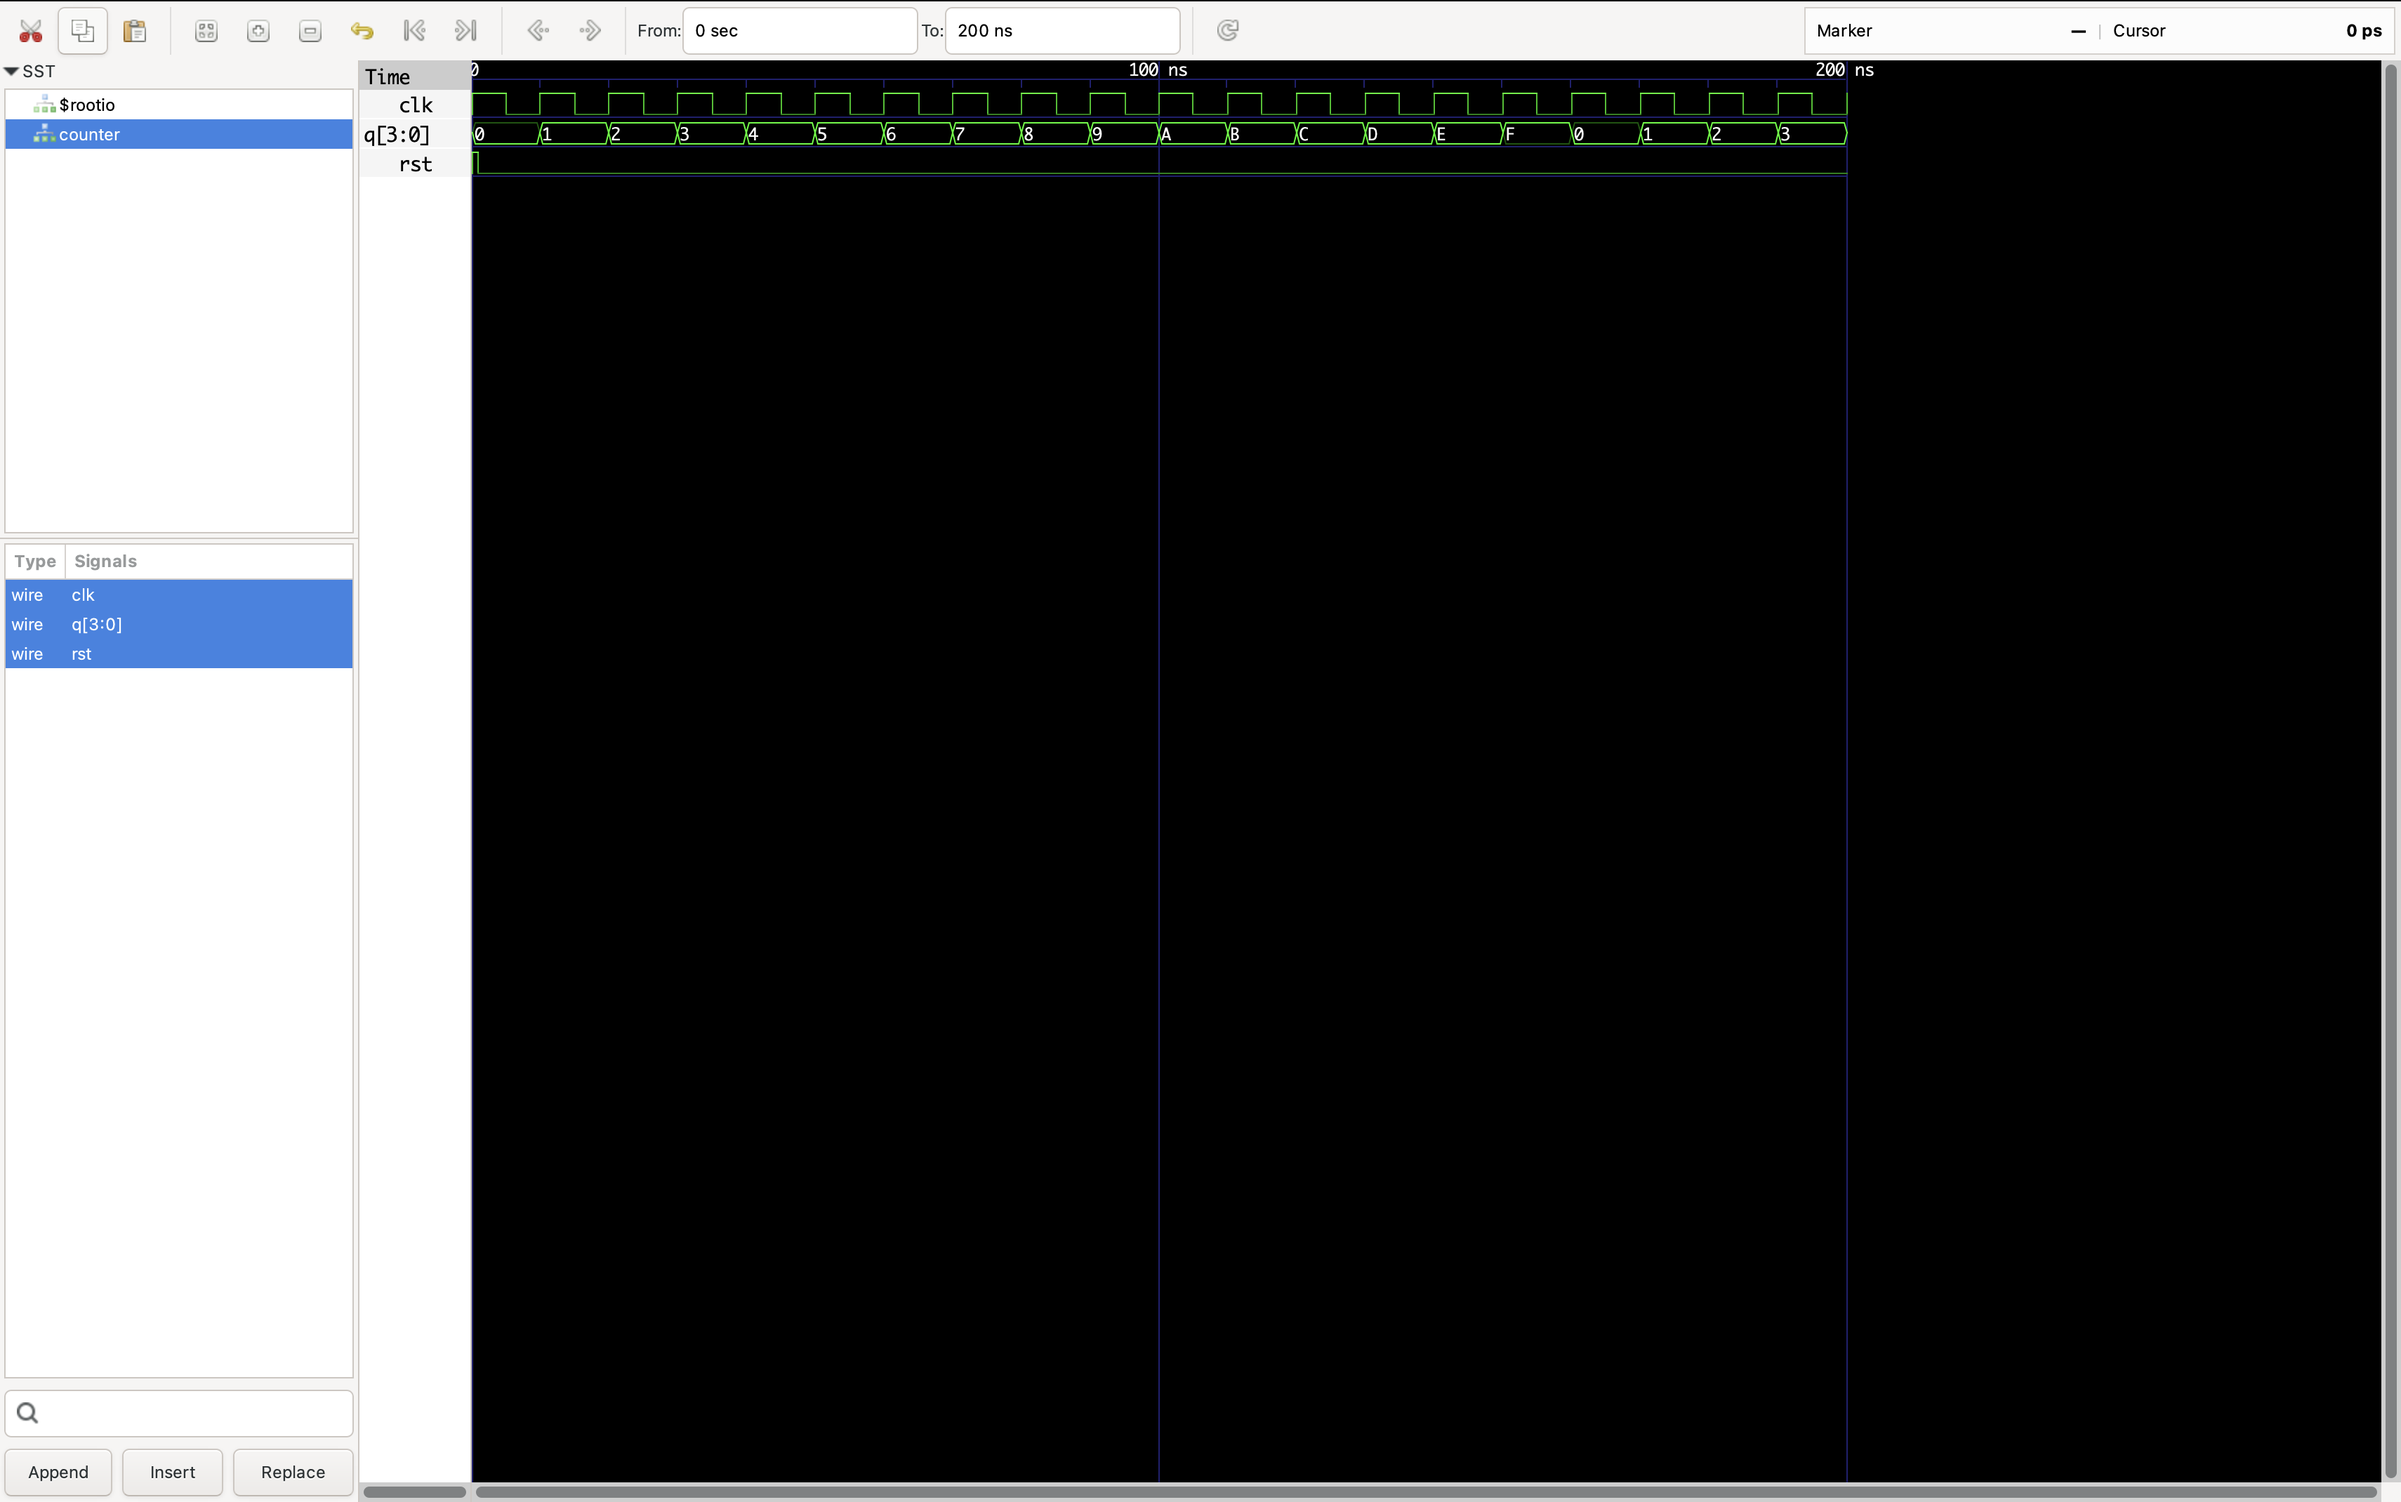
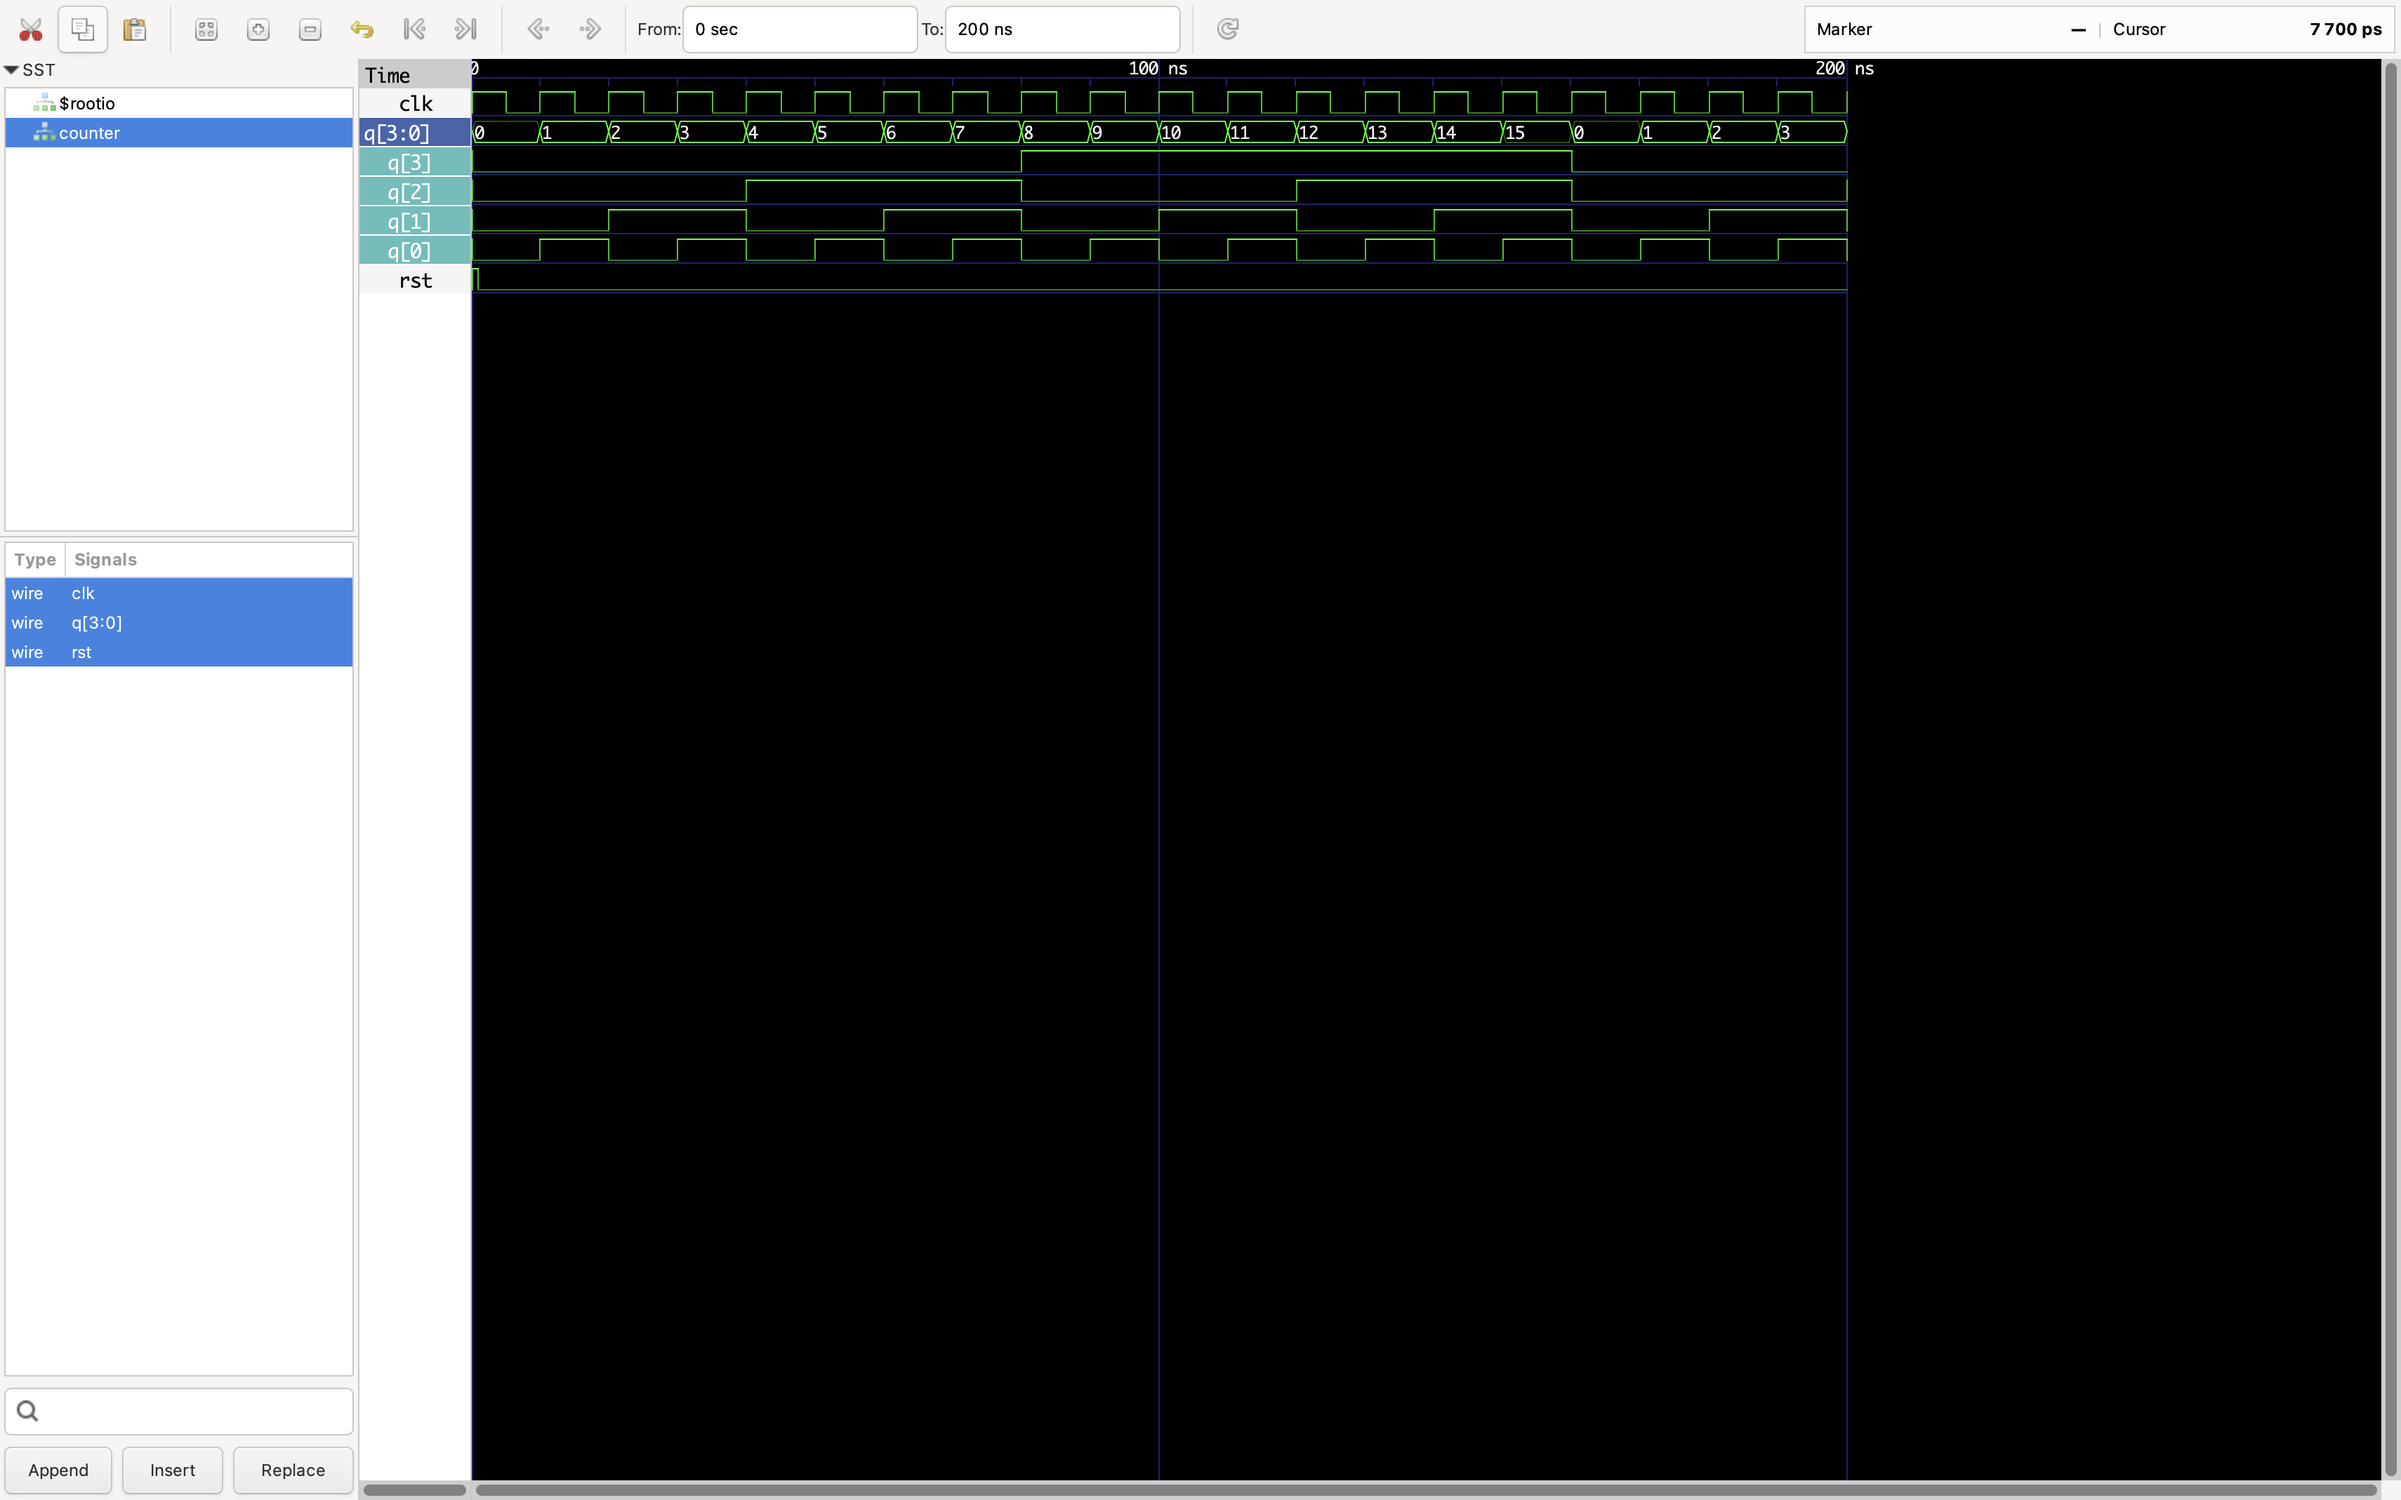
counter documentation

diff --git a/adder/README.md b/adder/README.md
@@ -82,6 +82,3 @@ Select `adder` in the SST panel, append `a[7:0]`, `b[7:0]`, and `sum[8:0]`, zoom
 
 ![GTKWave 8-bit Adder Waveform](docs/adder_waveform.png)
 
-## Next Milestone
-
-Transition from combinational logic to sequential design by implementing a **4-bit synchronous counter (`counter.sv`)** in `sandbox/` to practice `clk`, `rst`, `always_ff`, non-blocking assignments (`<=`), and `RisingEdge(dut.clk)`.
